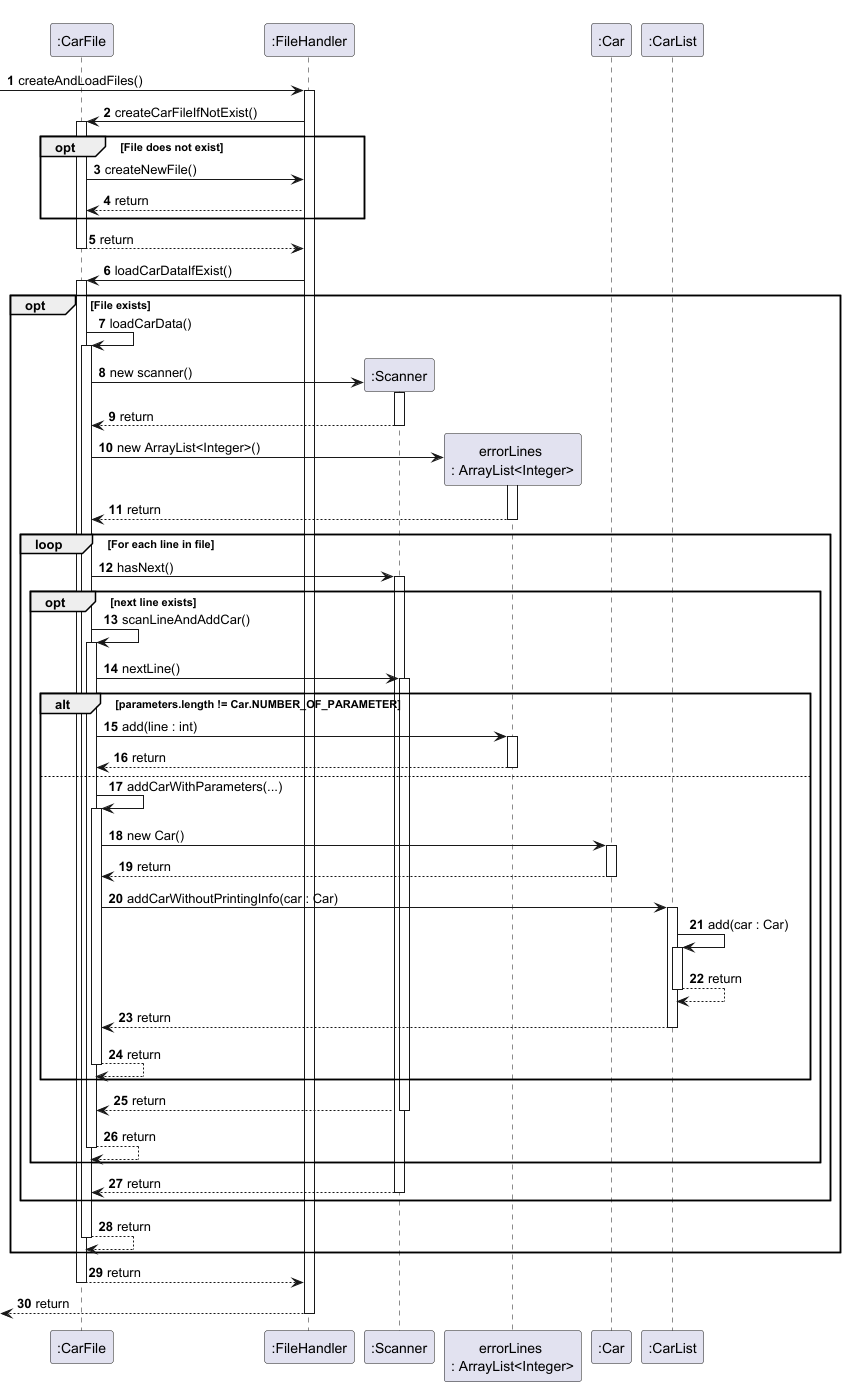
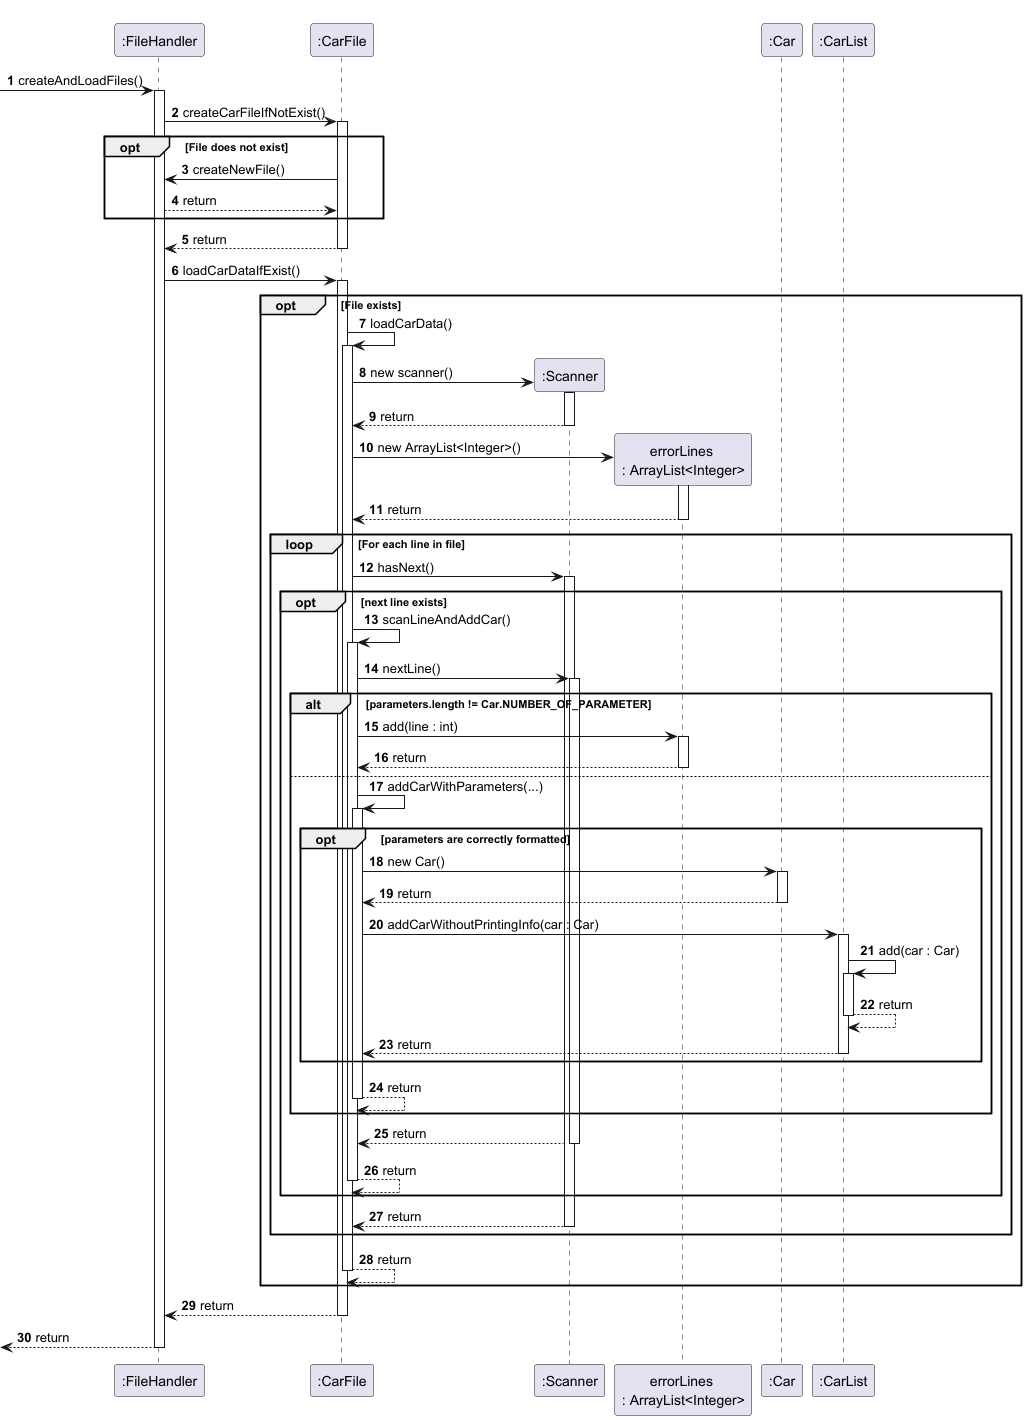
Update UG

diff --git a/docs/DeveloperGuide.md b/docs/DeveloperGuide.md
@@ -14,27 +14,68 @@ in diagrams across the team
 
 ## Design & implementation
 
-The following is our overall class diagram for our whole project. To reduce the size of the overall diagram , only class
+The following is our overall architecture diagram for our whole project. To reduce the size of the overall diagram , only class
 names are included.
 
 ![Local Image](images/Overall.png)
 
-### Sequence diagrams
 
-1. `Adding a customer`
+---
+### Adding a customer
 
-The following sequence diagram will explain the sequence of events after the user inputs an add-user command.
+### Implementation:
+The following sequence diagram will illustrate the sequence of events of a **valid** `add-user` operation. Customer 
+details like age and contact number are stored which are useful when the rental company would like to contact 
+the customer and creating transactions.
 
+### Sequence diagram
 ![Local Image](images/AddCustomerSequence.png)
 
-2. `Creating Car file and loading file`
+### High-level steps
 
+1) Parse the input into its parameters and extract the content.
+2) Create the new Customer object if all parameters fit the format.
+3) Add it to the current Customer ArrayList.
+
+---
+### Creating file and loading file at the start of the program
+
+### Implementation:
 The following sequence diagram will explain the sequence of events for loading of the carData.txt which happens at the
-start of the program. The carData.txt will be created if it does not exist at the start of program and its data will be
+start of the program. The operations involved for the other two files are very similar so we will use the example of 
+carData.txt. The carData.txt will be created if it does not exist at the start of program and its data will be
 loaded if the file exist.
 
+### Sequence diagram
 ![Local Image](images/CarFileLoader.png)
 
+### High-level steps 
+
+1) File is created if it does not exist.
+2) Each line in the file is scanned and checked that each parameter is correctly formatted.
+3) The correct data is parsed into a new Car object.
+4) Each Car object is placed into the ArrayList.
+
+### Rationale behind way of implementation:
+
+Similar to real-world applications, data are stored on the computer already and does not require the user to explicitly 
+load data from a specific location. It should be automatic and hassle-free. Preventing the corrupted data from entering 
+the system is also important as it might crash the program thus it is important to check the data before adding.
+
+### Alternatives considered:
+* User can choose which file to load
+  * Cons
+    1) Too complicated as there are too many possible file paths possible and would significant add to the complexity of 
+    the program.
+* User can choose whether to load data file and save when they want to.
+  * Pros
+    1) User has more control over the version control of the data files.
+  * Cons
+    1) User experience might decrease as they constantly have to save files themselves.
+    2) Many important data can be lost if program crashes before saving of file which does not happen with 
+     constant updating.
+    
+---
 ### Auto updating of car rental status feature
 
 ### Implementation:
@@ -124,7 +165,7 @@ Responsibility principle (SRP) or Separation of Concerns principle (SOC).
   - Cons:
     - Possibility that user might forget to update rental status
     - Need to add new commands to update rental status (e.g. `mark-rented`) 
-
+---
 ### Implementation of Transaction Completion Management and Retrieval Features
 
 To enhance the functionality of **CliRental**, we have implemented features that allow users to mark transactions as completed or uncompleted, list transactions based on their completion status, and find transactions by customer name. These features streamline the process of managing rental transactions, ensuring accurate tracking and easy retrieval of relevant data.
@@ -196,7 +237,7 @@ The implementation of these features is encapsulated within the `TransactionList
   - `Maintainability` : When new parameters are introduced, only 3 methods and less than 10 lines of code 
       needs to be updated. 
 
-
+---
 ## Product scope
 ### Target user profile
 
@@ -212,10 +253,15 @@ finding the transaction they are looking for easily with multiple filters.
 
 ## User Stories
 
-|Version| As a ... | I want to ... | So that I can ...|
-|--------|----------|---------------|------------------|
-|v1.0|new user|see usage instructions|refer to them when I forget how to use the application|
-|v2.0|user|find a to-do item by name|locate a to-do without having to go through the entire list|
+| Version | As a ...                       | I want to ...                  | So that I can ...                     |
+|---------|--------------------------------|--------------------------------|---------------------------------------|
+| v1.0    | car rental frontdesk employee  | know status of all the cars    | inform customers about availability   |
+ v1.0    | car rental frontdesk employee  | add customer details to our database | keep records for future transactions  |
+ v2.0    | car rental frontdesk employee  | save all my data               | ensure information will never be lost |
+ v2.0    | -                              | -                              | -                                     |
+ v2.0    | -                              | -                              | -                                     |
+ v2.0    | -                              | -                              | -                                     |
+| v2.0    | -                              | -                              | -                                     |
 
 ## Non-Functional Requirements
 
@@ -241,4 +287,9 @@ transactionData.txt should be created in the data folder as well if it does not 
 `check` : The command should return an error message saying that the format of contact number is wrong. Using 
 `+6577777777` should allow you to add the user successfully now.
 
+`Test case 3` :
 
+`details` : Adding a user using `add-user /u john /a 16 /c +65 77777777` <br>
+`check` : The command should return an error message saying that the age is illegal to drive which is true 
+for most countries at age of 16. Our legal age is 18 thus changing the age to 18 and above but maximally 100 years old 
+will work now.
